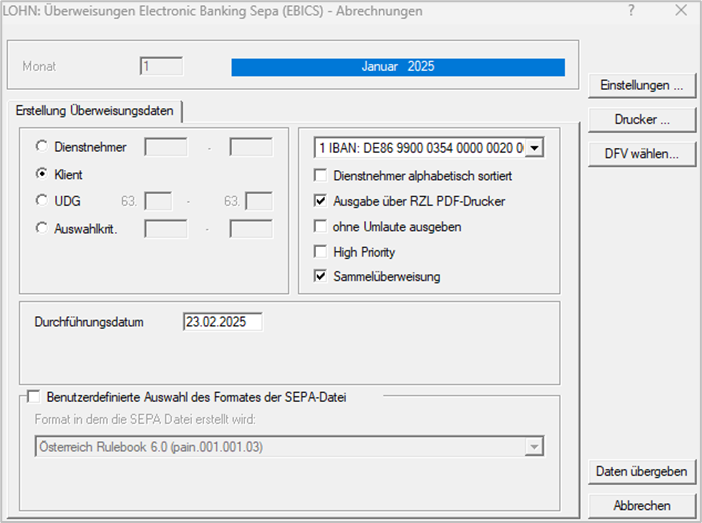
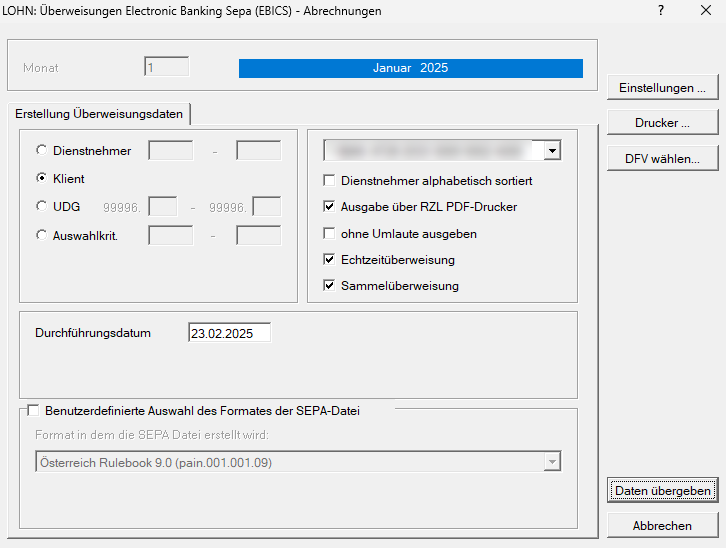
2.25.9.0 lohn aenderungen (#111)
* Ausdruck Abrechnungen ergänzt um nicht in englischer Sprache möglich

* Reporting: Musterreport RZL Unternehmensreport Stand 08072025 eingepflegt

* Mitarbeiterprämie 2025 eingepflegt

* Stammdaten Fristen: Bildschirm getauscht und bei den Anmerkungen geändert, dass es jetzt 10 Anmerkungsfelder gibt

* Einpflegung Mitarbeiterprämie

* Mitarbeitergewinnbeteiliung: Absatz mit Nicht-Übermittlung L16 gelöscht - geht schon seit langem

* Änderungen Mitarbeiterprämie 2025

* Mitarbeiterprämie eingepflegt

* Anpassung Text L16 Formular Mitarbeiterprämie 2025

* Bezugsumwandlung Bike Leasing: Quelle entfernt, da ÖGK dauernd die Links ändert

* Auflistung Musterreport: 250 Erweitert um VZÄ monatlich auf Std.basis nach SVTagen

* Stammdaten Dienstnehmer: Abweichenden Kontoinhaber hinzugefügt

* Elektronic Banking SEPA: Echtzeitüberweisung hinzugefügt, High Priority entfernt

* Elektronic Banking EBICS: Bildschirm ausgetauscht Echtzeitüberweisung statt High Priority

diff --git a/docs/LOHN/Abrechnungsbildschirme/Stammdaten Dienstnehmer.md b/docs/LOHN/Abrechnungsbildschirme/Stammdaten Dienstnehmer.md
@@ -143,6 +143,10 @@ Wenn die Bankleitzahl eingetragen wird, wird in diesem Feld automatisch der korr
 !!! info "Tipp"
     Durch Anwahl der *F2-Taste* wird die Liste mit BICs aufgerufen. Wenn in diesem Feld die Bankleitzahl eingetragen und anschließend die *F2-Taste* gedrückt wird, wird der BIC vorgeschlagen und kann übernommen werden. Diese Vorgehensweise ist nur bei bereits vorhandenen Bankverbindungen notwendig (nicht bei Neueintragungen).
 
+**Abweichender Kontoinhaber**
+
+Unter *abw. Kontoinhaber* haben Sie die Möglichkeit, einen abweichenden Namen des Kontoinhabers einzutragen.
+
 **Dienstgeber-Bank**
 
 Es kann hier verankert werden, ob die Lohn-/Gehaltsüberweisung an den Dienstnehmer immer nur von der ersten Bankverbindung oder von der zweiten Bankverbindung des Dienstgebers erfolgen soll. Die Eingabe von *&lt;keine&gt;* bedeutet, dass keine Festlegung erfolgt und jeweils von der, bei der Überweisung angewählten Bank, vorgenommen wird.

diff --git a/docs/LOHN/Elektronic Banking SEPA.md b/docs/LOHN/Elektronic Banking SEPA.md
@@ -24,9 +24,9 @@ Wird dieses Feld angewählt, erfolgt die Ausgabe des Überweisungsprotokolls als
 
 Bei ausländischen Banken können sich Probleme ergeben, wenn Umlaute in die Datei mitausgegeben werden. Die Anwahl dieses Feldes ersetzt folgende Zeichen (ä = a, ü =u, ö = o, ß = s).
 
-**High Priority**
+**Echtzeitüberweisung**
 
-Durch dieses Auswahlfeld geben Sie an, dass es sich um eine Eilüberweisung handelt. Die Banken verlangen in der Regel eine Gebühr für solche Überweisungen.
+Mit diesem Auswahlfeld geben Sie an, dass Sie die Überweisung in Echtzeit durchführen möchten.
 
 **Sammelüberweisung**
 
